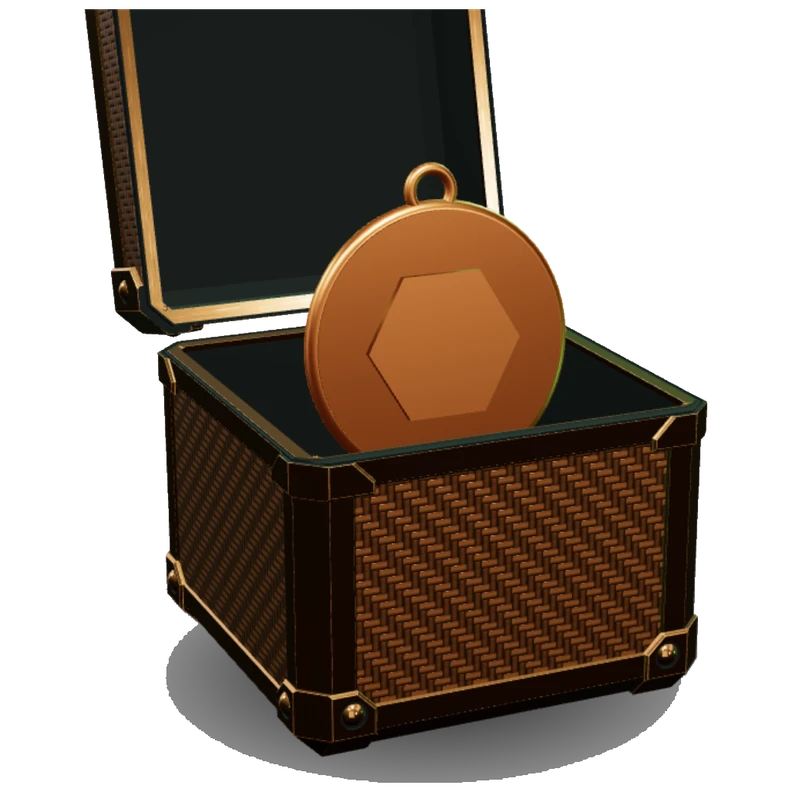
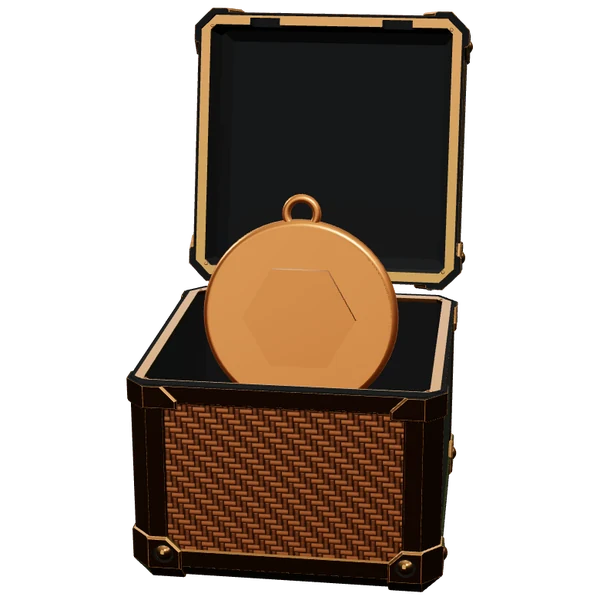
Leaderboard: Champion boxes re-rendered on a transparent background with the full lid; frames are outline-only with see-through fill so the page background is never hidden

diff --git a/index.html b/index.html
@@ -1273,7 +1273,8 @@ html,body{overscroll-behavior:none}
 /* Leaderboard v2 (Sharon 2026-11-25): exclusive Champion boxes (open, trophy/medal), hex rank badges, steel cut frames */
 #v-leaderboard{--lbsteel:linear-gradient(135deg,#f4f5f7,#8e939b 40%,#e9ebee 70%,#7e838b);--lbgold:linear-gradient(135deg,#f3dc8e 0%,#a8822f 40%,#e9c15a 70%,#7d5f1e 100%);--lbbr:linear-gradient(135deg,#f0b58a,#8a4a22 45%,#d98a52 75%,#6a3414)}
 #v-leaderboard .lb2-fr{position:relative;isolation:isolate;background:var(--lbsteel);--c:14px;clip-path:polygon(var(--c) 0,100% 0,100% calc(100% - var(--c)),calc(100% - var(--c)) 100%,0 100%,0 var(--c))}
-#v-leaderboard .lb2-fr::before{content:"";position:absolute;inset:1.5px;z-index:-1;background:#101013;clip-path:polygon(calc(var(--c) - .6px) 0,100% 0,100% calc(100% - var(--c) + .6px),calc(100% - var(--c) + .6px) 100%,0 100%,0 calc(var(--c) - .6px))}
+#scr#scr #v-leaderboard :is(.seg,.ppb)::before{background:rgba(8,8,10,.45)!important}
+#v-leaderboard .lb2-fr::before{content:"";position:absolute;inset:1.5px;z-index:-1;background:rgba(8,8,10,.45);clip-path:polygon(calc(var(--c) - .6px) 0,100% 0,100% calc(100% - var(--c) + .6px),calc(100% - var(--c) + .6px) 100%,0 100%,0 calc(var(--c) - .6px))}
 #scr #v-leaderboard #reset{display:flex;align-items:center;gap:8px;margin:14px 20px 0;font:600 10.5px Inter,sans-serif;letter-spacing:2.2px;color:#8f9893}
 #scr #v-leaderboard #reset::before{content:"";width:7px;height:7px;border-radius:50%;background:#19b85f;box-shadow:0 0 8px #19b85f;flex:none}
 #v-leaderboard .lb2-pod{display:grid;grid-template-columns:1fr 1.18fr 1fr;align-items:end;gap:8px;padding:18px 16px 0}
@@ -1289,7 +1290,7 @@ html,body{overscroll-behavior:none}
 #v-leaderboard .lb2-hex.none{background:#2a2d33;color:#cfd3da}
 #v-leaderboard .lb2-card{width:100%;--c:13px;padding:26px 4px 12px;display:flex;flex-direction:column;align-items:center;text-align:center}
 #v-leaderboard .first .lb2-card{background:var(--lbgold);padding:30px 4px 15px}
-#v-leaderboard .first .lb2-card::before{background:linear-gradient(180deg,#241c0b,#111114 70%)}
+#v-leaderboard .first .lb2-card::before{background:linear-gradient(180deg,rgba(60,44,8,.55),rgba(8,8,10,.4) 70%)}
 #v-leaderboard .lb2-who{font:700 14px Inter,sans-serif;max-width:100%;overflow:hidden;text-overflow:ellipsis;white-space:nowrap}
 #v-leaderboard .lb2-pts{font:800 13px Archivo,sans-serif;font-stretch:125%;color:#dfe3e1;margin-top:3px}
 #v-leaderboard .first .lb2-pts{color:#e8c45a;font-size:14px}
@@ -1310,7 +1311,7 @@ html,body{overscroll-behavior:none}
 #v-leaderboard .lb2-cut{display:flex;align-items:center;gap:10px;padding:8px 16px;font:700 9.5px Inter,sans-serif;letter-spacing:2px;color:#19b85f;text-transform:uppercase}
 #v-leaderboard .lb2-cut::before,#v-leaderboard .lb2-cut::after{content:"";flex:1;height:1px;background:repeating-linear-gradient(90deg,rgba(25,184,95,.6) 0 6px,transparent 6px 11px)}
 #v-leaderboard .lb2-me{margin:14px 16px 0;--c:16px;padding:18px;background:linear-gradient(135deg,#3ddc84,#00702f 45%,#19b85f 75%,#00552a)}
-#v-leaderboard .lb2-me::before{background:linear-gradient(160deg,#0d2318,#0f1110 60%)}
+#v-leaderboard .lb2-me::before{background:linear-gradient(160deg,rgba(0,80,40,.4),rgba(8,8,10,.45) 60%)}
 #v-leaderboard .lb2-lab{font:700 10px Inter,sans-serif;letter-spacing:2.4px;color:#9fd9b8}
 #v-leaderboard .lb2-row{display:flex;align-items:flex-end;justify-content:space-between;gap:12px}
 #v-leaderboard .lb2-big{font:900 36px/1.05 Archivo,sans-serif;font-stretch:125%;margin-top:4px;color:#fff}
@@ -4403,6 +4404,14 @@ html.desk[data-dv=boxes] #scr#scr#scr#scr #insideTop{display:grid!important;grid
 html.desk[data-dv=boxes] #scr#scr#scr#scr #insideTop>*{margin:0!important;width:auto!important}
 html.desk[data-dv=boxes] #scr#scr#scr#scr #blist{display:grid!important;grid-template-columns:repeat(3,1fr);gap:12px;padding:0!important}
 html.desk[data-dv=boxes] #scr#scr#scr#scr #blist>*{margin:0!important;width:auto!important}
+
+/* Leaderboard frames as outline only (Sharon 2026-11-25: everything on a see-through background, the page background must never be hidden) */
+#scr#scr #v-leaderboard :is(.lb2-fr,.seg,.ppb){background:transparent!important}
+#scr#scr #v-leaderboard :is(.lb2-fr,.seg,.ppb)::after{content:""!important;display:block!important;position:absolute;inset:0;z-index:-1;pointer-events:none;background:var(--frm,linear-gradient(135deg,#f4f5f7,#8e939b 40%,#e9ebee 70%,#7e838b));
+ clip-path:polygon(evenodd,var(--c,var(--cut)) 0,100% 0,100% calc(100% - var(--c,var(--cut))),calc(100% - var(--c,var(--cut))) 100%,0 100%,0 var(--c,var(--cut)),var(--c,var(--cut)) 0,
+  calc(var(--c,var(--cut)) + .9px) 1.5px,1.5px calc(var(--c,var(--cut)) + .9px),1.5px calc(100% - 1.5px),calc(100% - var(--c,var(--cut)) - .9px) calc(100% - 1.5px),calc(100% - 1.5px) calc(100% - var(--c,var(--cut)) - .9px),calc(100% - 1.5px) 1.5px,calc(var(--c,var(--cut)) + .9px) 1.5px)}
+#scr#scr #v-leaderboard .first .lb2-card{--frm:linear-gradient(135deg,#f3dc8e 0%,#a8822f 40%,#e9c15a 70%,#7d5f1e 100%)}
+#scr#scr #v-leaderboard .lb2-me{--frm:linear-gradient(135deg,#3ddc84,#00702f 45%,#19b85f 75%,#00552a)}
 </style>
 <div id="dk" aria-hidden="false">
  <div class="dk-bk"><svg id="dkHex"></svg></div>
